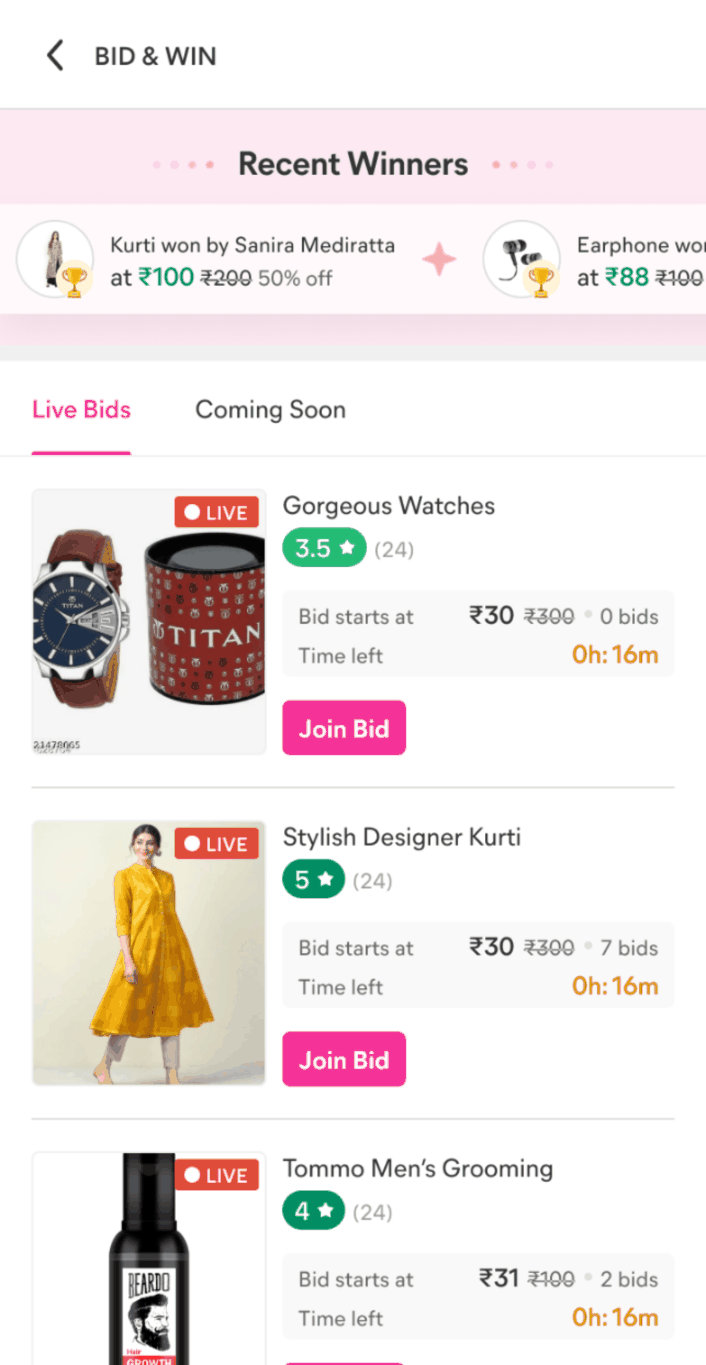
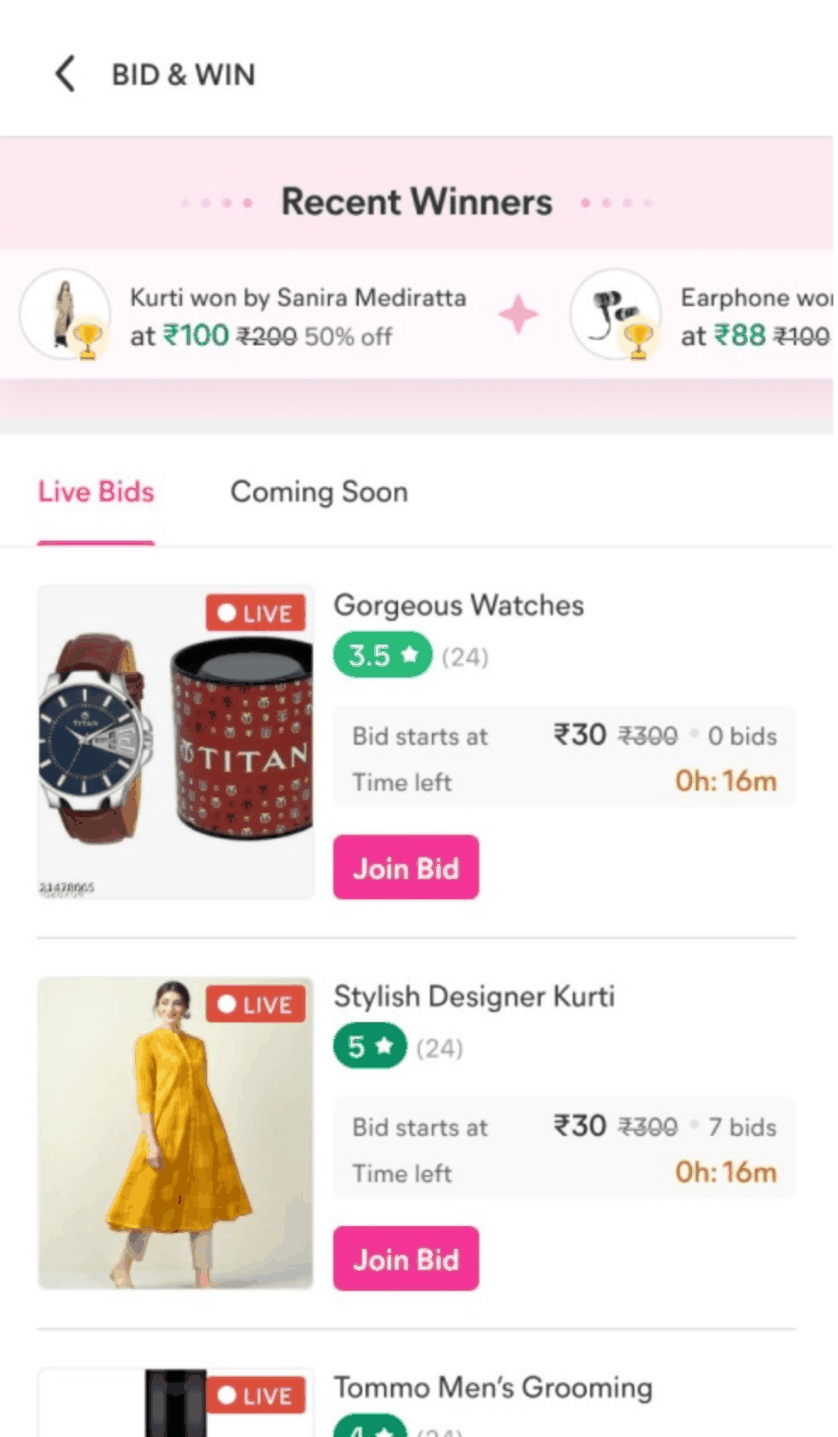
Use the Figma crops for every thumbnail
Home cards, the case study heroes and the bid based shopping screens
are now the images exactly as framed in 'UI / Home rail full sequence'
and the 'UI / Case study' frames, crops included: the dashboard and
rewards covers at 1040x680, the two bid phones at 1:2, the dashboard
hero at 674x375, the three hero phones at 179x387 flush to the panel
floor, the context screens at 245x420, and the before/after screens
at 380x532, 380x470 and 380x543.

Claude-Session: https://claude.ai/code/session_01WnLYahtb6iPzHtzNXeJqti

diff --git a/index.html b/index.html
@@ -341,6 +341,8 @@ html.view-case .sleeve{justify-content:flex-start;gap:14px;padding-top:32px}
 .cs-cover .shot{background:#1C2225;flex:1;height:100%;align-self:flex-end}
 .cs-cover.single{padding:7% 7% 0}
 .cs-cover.single .shot{flex:1}
+.cs-cover.trio{padding:5.5% 0 0;gap:3.45%}
+.cs-cover.trio .shot{flex:none;height:100%;width:auto}
 
 .cs-sec{padding:72px 0;border-top:1px solid var(--line);scroll-margin-top:24px}
 .cs-head{display:flex;flex-direction:column;gap:18px;margin-bottom:34px}
@@ -752,7 +754,7 @@ function imgGone(img){
             <article class="card" data-anchor="merchant dashboard">
               <a class="cover-link" href="#case/0" data-case-open="0"><div class="cover">
                 <div class="cover-meta"><span class="l-ms">01</span><span class="l-m client">meesho '22</span></div>
-                <figure class="shot on-ink filled" style="--ar:1040/680"><img src="images/dashFull.png" alt="Meesho business dashboard with an orders chart and product table" loading="eager" decoding="async"></figure>
+                <figure class="shot on-ink filled" style="--ar:1040/680"><img src="images/homeDash.png" alt="Meesho business dashboard with an orders chart and product table" loading="eager" decoding="async"></figure>
               </div></a>
               <div class="info">
                 <div class="meta">
@@ -766,7 +768,7 @@ function imgGone(img){
             <article class="card" data-anchor="merchant incentive">
               <a class="cover-link" href="#case/1" data-case-open="1"><div class="cover">
                 <div class="cover-meta"><span class="l-ms">02</span><span class="l-m client">meesho '22</span></div>
-                <figure class="shot on-ink filled" style="--ar:952/628"><img src="images/rewardsV1.png" alt="Meesho rewards and benefits screen for new suppliers" loading="eager" decoding="async"></figure>
+                <figure class="shot on-ink filled" style="--ar:1040/680"><img src="images/homeRewards.png" alt="Meesho rewards and benefits screen for new suppliers" loading="eager" decoding="async"></figure>
               </div></a>
               <div class="info">
                 <div class="meta">
@@ -781,8 +783,8 @@ function imgGone(img){
               <a class="cover-link" href="#case/2" data-case-open="2"><div class="cover">
                 <div class="cover-meta"><span class="l-ms">03</span><span class="l-m client">meesho '23</span></div>
                 <div class="shots">
-                  <figure class="shot on-ink filled" style="--ar:1/2"><img src="images/landNew.png" alt="Bid and win landing screen listing coming-soon bids" loading="eager" decoding="async"></figure>
-                  <figure class="shot on-ink filled" style="--ar:1/2"><img src="images/bidNew.png" alt="Bid chat screen with quick-select price chips" loading="eager" decoding="async"></figure>
+                  <figure class="shot on-ink filled" style="--ar:1/2"><img src="images/homeBid1.png" alt="Bid and win landing screen listing coming-soon bids" loading="eager" decoding="async"></figure>
+                  <figure class="shot on-ink filled" style="--ar:1/2"><img src="images/homeBid2.png" alt="Bid chat screen with quick-select price chips" loading="eager" decoding="async"></figure>
                 </div>
               </div></a>
               <div class="info">
@@ -1346,12 +1348,16 @@ function imgGone(img){
     bbsEntry:  {u:"", ar:"245/420", crop:1, alt:"Bid based shopping entry screen"},
     bbsSlot:   {u:"", ar:"245/420", crop:1, alt:"Live slot screen showing five products"},
     bbsBid:    {u:"", ar:"245/420", crop:1, alt:"Bidding chat screen"},
+    cs0Hero:   {u:"", ar:"674/375", alt:"Business dashboard with the orders trend and grouped metrics"},
+    cs2Hero1:  {u:"", ar:"179/387", alt:"Bid and win, coming soon tab"},
+    cs2Hero2:  {u:"", ar:"179/387", alt:"Bid and win, live bids by category"},
+    cs2Hero3:  {u:"", ar:"179/387", alt:"Bid chat with quick-select price chips"},
     bannerOld: {u:"", ar:"540/222", alt:"The original entry banner"},
     bannerNew: {u:"", ar:"540/222", alt:"The redesigned entry banner"},
-    landOld:   {u:"", ar:"380/470", crop:1, alt:"The original bid landing page"},
+    landOld:   {u:"", ar:"380/532", alt:"The original bid landing page"},
     landNew:   {u:"", ar:"380/470", crop:1, alt:"The redesigned bid landing page"},
-    bidOld:    {u:"", ar:"380/470", crop:1, alt:"The original bid input"},
-    bidNew:    {u:"", ar:"380/470", crop:1, alt:"Bid chat with quick-select price chips"}
+    bidOld:    {u:"", ar:"380/532", alt:"The original bid input"},
+    bidNew:    {u:"", ar:"380/543", alt:"Bid chat with quick-select price chips"}
   };
 
   var CASES = [
@@ -1359,7 +1365,7 @@ function imgGone(img){
     side:"side a · track 01", title:"merchant dashboard", client:"meesho '22",
     h1:"helping merchants get clarity on business performance.",
     lede:"A dashboard that shows merchants how their business is doing, in the way they already think about it.",
-    cover:{kind:"single", shots:["dashFull"]},
+    cover:{kind:"single", shots:["cs0Hero"]},
     next:{i:1, label:"merchant incentive"},
     sec:[
       {no:"01", nm:"the problem", b:[
@@ -1443,7 +1449,7 @@ function imgGone(img){
     side:"side a · track 03", title:"bid based shopping", client:"meesho '23",
     h1:"how we improved click-through by 22%.",
     lede:"A chat-based bidding game where users could win products at deep discounts. Lots of people saw it. Almost nobody played. Three experiments, one funnel stage at a time.",
-    cover:{kind:"trio", shots:["landNew","bbsSlot","bidNew"]},
+    cover:{kind:"trio", shots:["cs2Hero1","cs2Hero2","cs2Hero3"]},
     next:{i:0, label:"merchant dashboard"},
     sec:[
       {no:"01", nm:"context · what is bid based shopping?", b:[
@@ -1626,9 +1632,9 @@ function imgGone(img){
   }
 
   function coverHTML(c){
-    if (c.cover.kind === "trio") return '<div class="cs-cover">'+c.cover.shots.map(function(k){
+    if (c.cover.kind === "trio") return '<div class="cs-cover trio">'+c.cover.shots.map(function(k){
       var a = A[k];
-      return '<figure class="shot" style="aspect-ratio:245/420"><img src="'+srcFor(k)+'" alt="'+esc(a.alt)+'" style="object-position:top"'+(a.u?' onerror="this.onerror=null;this.src=\''+a.u+'\'"':' onerror="this.style.display=\'none\'"')+'></figure>';
+      return '<figure class="shot" style="aspect-ratio:'+a.ar+'"><img src="'+srcFor(k)+'" alt="'+esc(a.alt)+'" style="object-position:top"'+(a.u?' onerror="this.onerror=null;this.src=\''+a.u+'\'"':' onerror="this.style.display=\'none\'"')+'></figure>';
     }).join("")+'</div>';
     var a = A[c.cover.shots[0]];
     var ck = c.cover.shots[0];
